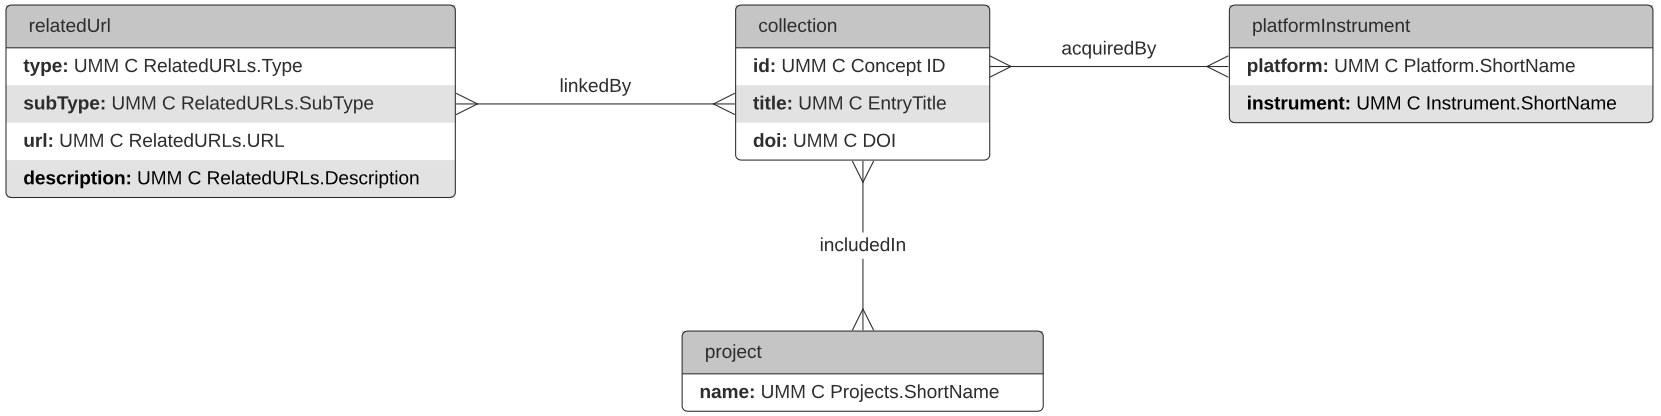
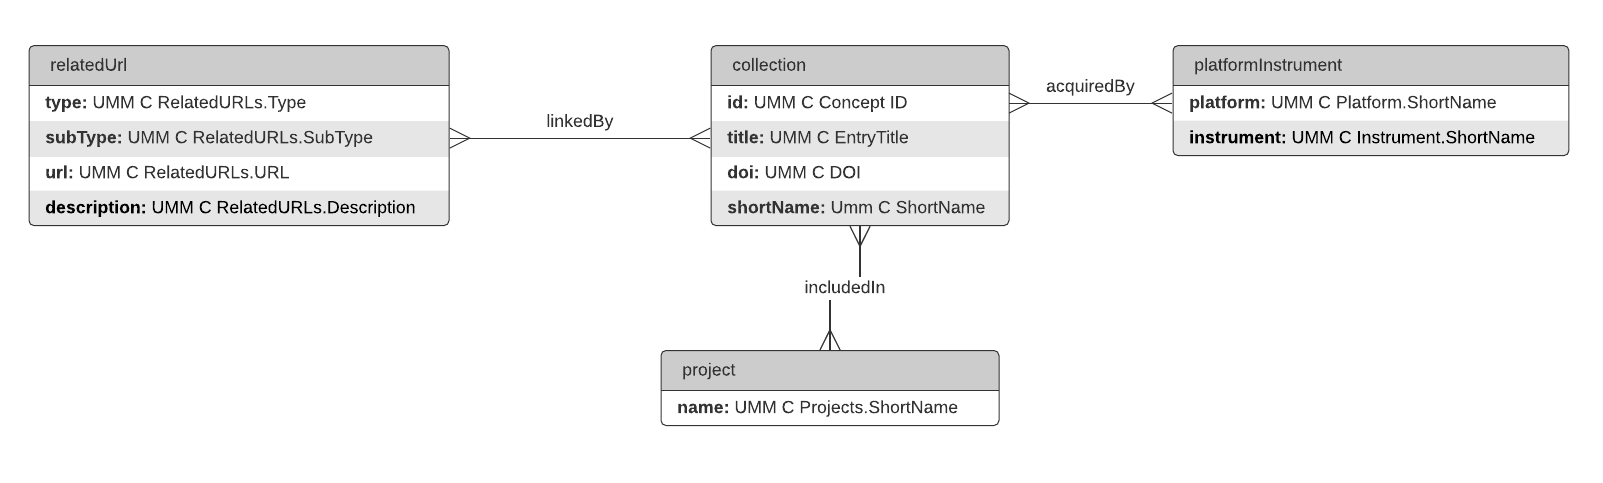
CMR-8164: Adds shortName to collection vertex

Changed region(s): [[0.0, 0.0, 0.9981, 0.5], [0.4055, 0.6875, 0.655, 1.0], [0.4991, 0.5625, 0.5614, 0.625]]

diff --git a/graph-db/serverless/src/utils/cmr/indexCmrCollection.js b/graph-db/serverless/src/utils/cmr/indexCmrCollection.js
@@ -26,7 +26,8 @@ export const indexCmrCollection = async (collectionObj, gremlinConnection) => {
       },
       Projects: projects,
       Platforms: platforms,
-      RelatedUrls: relatedUrls
+      RelatedUrls: relatedUrls,
+      ShortName: shortName
     }
   } = collectionObj
 
@@ -37,6 +38,7 @@ export const indexCmrCollection = async (collectionObj, gremlinConnection) => {
   const addVCommand = gremlinConnection.addV('collection')
     .property('title', entryTitle)
     .property('id', conceptId)
+    .property('shortName', shortName)
 
   if (doiDescription) {
     addVCommand.property('doi', doiDescription)
